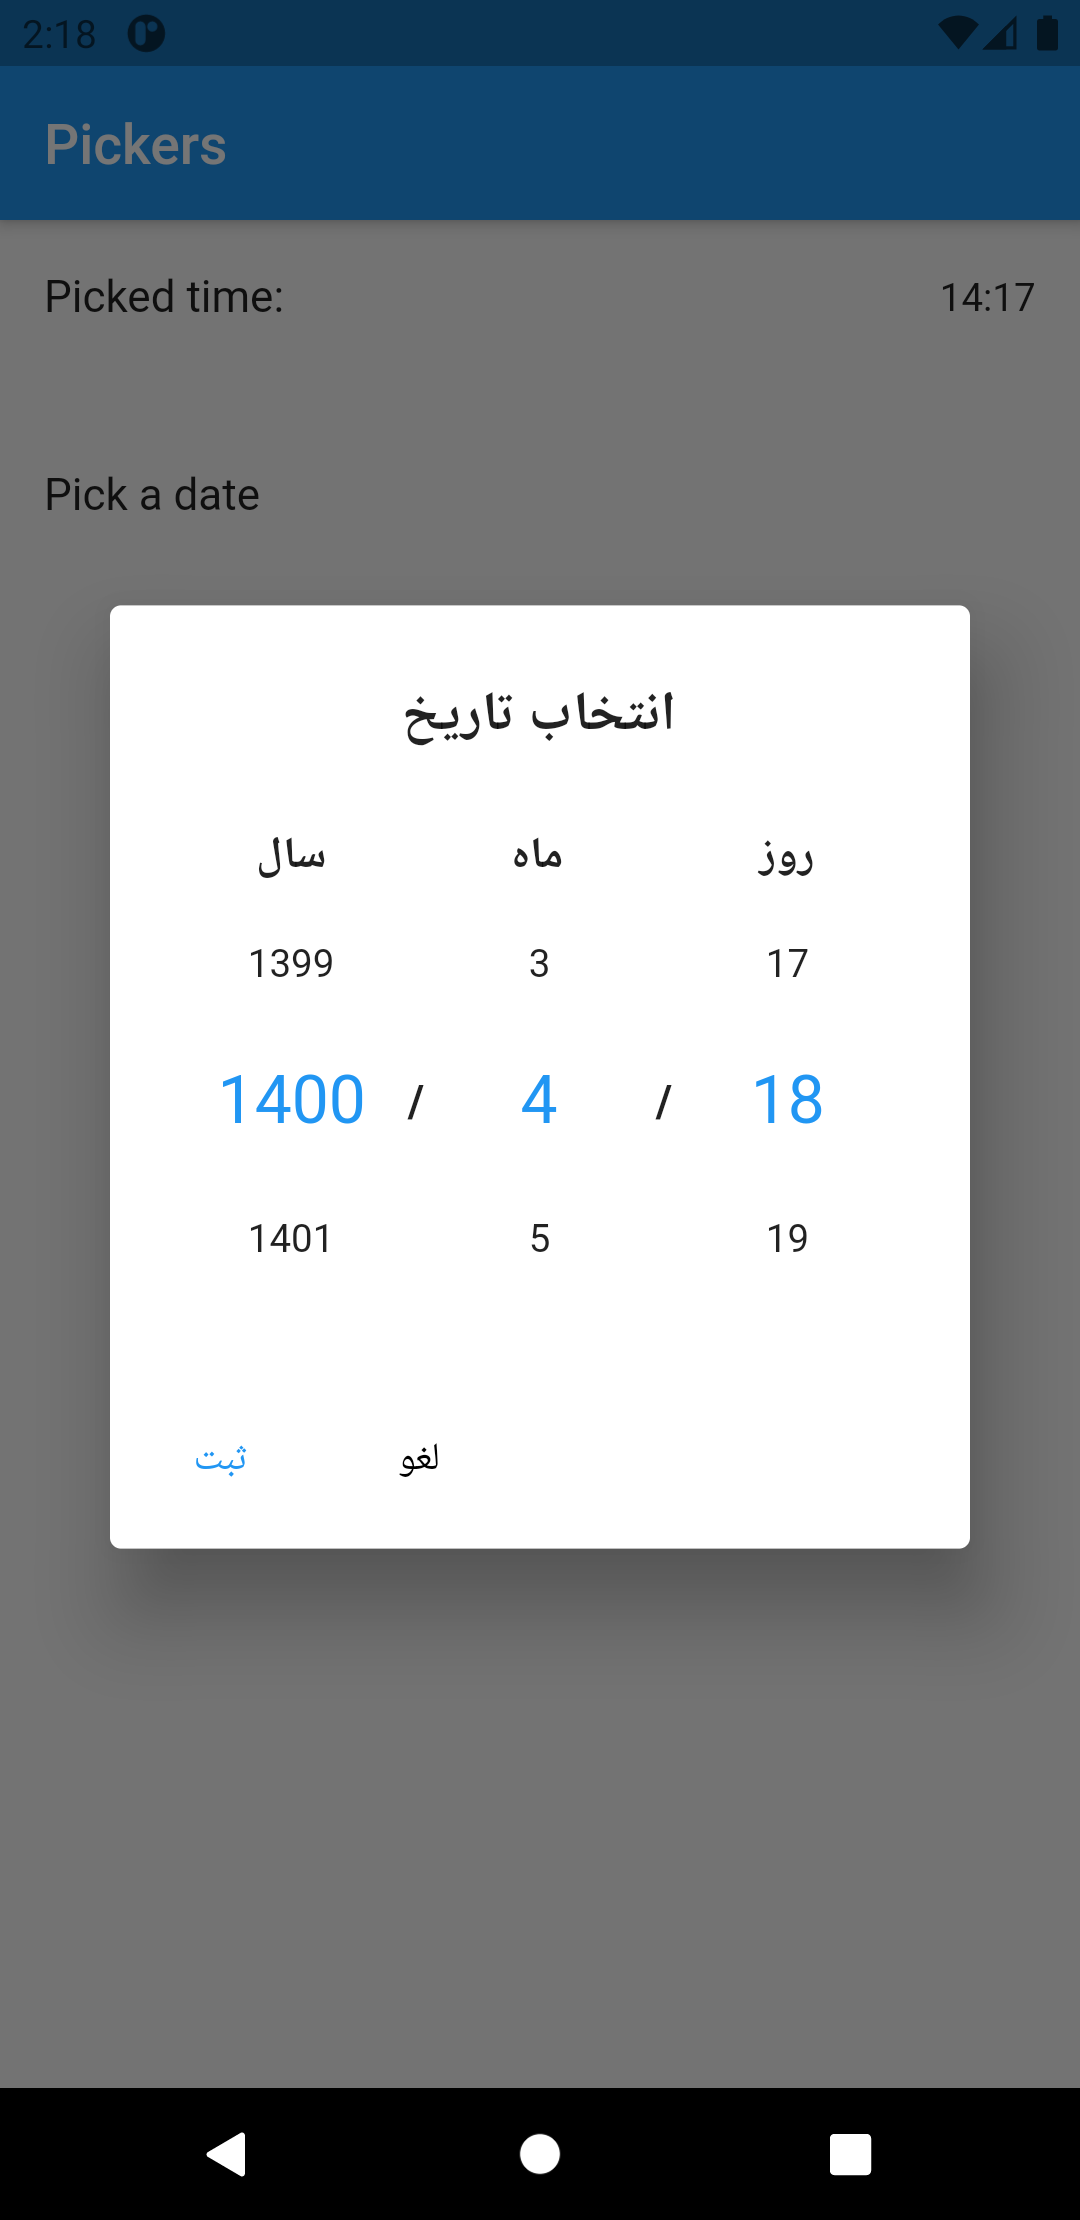
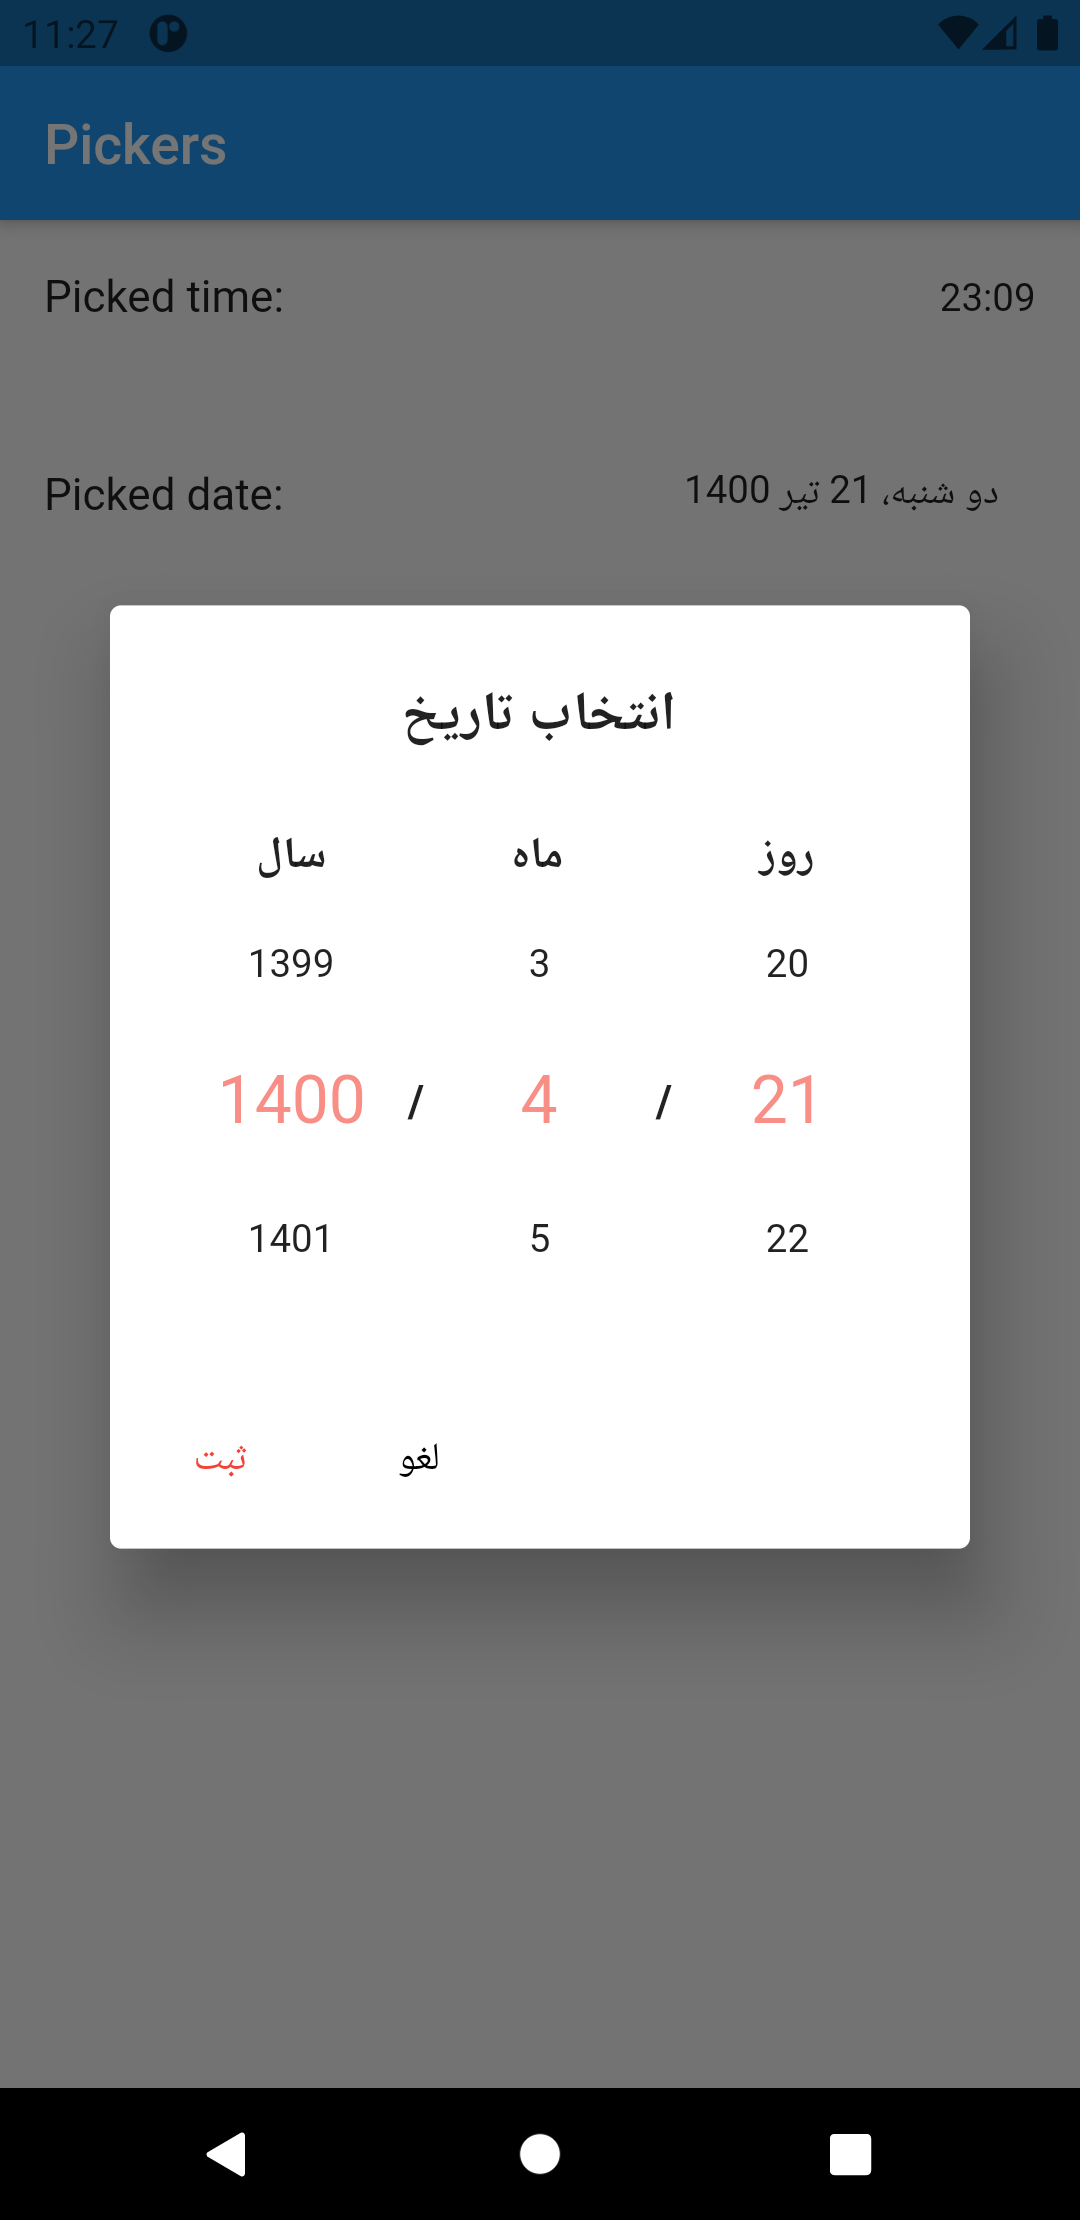
- custom color added to pickers - new extensions:   - DateTime toFancyString   - TimeOfDay toFancyString   - String addExtraZero - example updated with new changes

diff --git a/lib/src/pickers/date.dart b/lib/src/pickers/date.dart
@@ -20,6 +20,7 @@ Future<DateTime?> showPersianDatePicker({
   required BuildContext context,
   DateTime? initialDate,
   bool isJalali = true,
+  Color color = Colors.blue,
 }) async {
   DateTime? picked;
 
@@ -46,6 +47,72 @@ Future<DateTime?> showPersianDatePicker({
       : (initialDate == null
           ? Gregorian.now().day
           : Gregorian.fromDateTime(initialDate).day);
+
+  final materialColor = MaterialColor(
+    color.value,
+    {
+      50: Color.fromRGBO(
+        color.red,
+        color.green,
+        color.blue,
+        .1,
+      ),
+      100: Color.fromRGBO(
+        color.red,
+        color.green,
+        color.blue,
+        .2,
+      ),
+      200: Color.fromRGBO(
+        color.red,
+        color.green,
+        color.blue,
+        .3,
+      ),
+      300: Color.fromRGBO(
+        color.red,
+        color.green,
+        color.blue,
+        .4,
+      ),
+      400: Color.fromRGBO(
+        color.red,
+        color.green,
+        color.blue,
+        .5,
+      ),
+      500: Color.fromRGBO(
+        color.red,
+        color.green,
+        color.blue,
+        .6,
+      ),
+      600: Color.fromRGBO(
+        color.red,
+        color.green,
+        color.blue,
+        .7,
+      ),
+      700: Color.fromRGBO(
+        color.red,
+        color.green,
+        color.blue,
+        .8,
+      ),
+      800: Color.fromRGBO(
+        color.red,
+        color.green,
+        color.blue,
+        .9,
+      ),
+      900: Color.fromRGBO(
+        color.red,
+        color.green,
+        color.blue,
+        1,
+      ),
+    },
+  );
 
   await showDialog(
     context: context,
@@ -84,7 +151,7 @@ Future<DateTime?> showPersianDatePicker({
               child: Text(
                 isJalali ? 'ثبت' : 'Save',
                 style: TextStyle(
-                  color: Colors.blue,
+                  color: color,
                 ),
               ),
             ),
@@ -104,13 +171,18 @@ Future<DateTime?> showPersianDatePicker({
                           isJalali ? 'سال' : 'Year',
                           style: const TextStyle(fontWeight: FontWeight.bold),
                         ),
-                        NumberPicker(
-                          haptics: true,
-                          infiniteLoop: true,
-                          value: year,
-                          minValue: isJalali ? 1300 : 1900,
-                          maxValue: isJalali ? 1500 : 2100,
-                          onChanged: (value) => setState(() => year = value),
+                        Theme(
+                          data: ThemeData(
+                            primarySwatch: materialColor,
+                          ),
+                          child: NumberPicker(
+                            haptics: true,
+                            infiniteLoop: true,
+                            value: year,
+                            minValue: isJalali ? 1300 : 1900,
+                            maxValue: isJalali ? 1500 : 2100,
+                            onChanged: (value) => setState(() => year = value),
+                          ),
                         ),
                       ],
                     ),
@@ -130,11 +202,16 @@ Future<DateTime?> showPersianDatePicker({
                           isJalali ? 'ماه' : 'Month',
                           style: const TextStyle(fontWeight: FontWeight.bold),
                         ),
-                        NumberPicker(
-                          value: month,
-                          minValue: 1,
-                          maxValue: 12,
-                          onChanged: (value) => setState(() => month = value),
+                        Theme(
+                          data: ThemeData(
+                            primarySwatch: materialColor,
+                          ),
+                          child: NumberPicker(
+                            value: month,
+                            minValue: 1,
+                            maxValue: 12,
+                            onChanged: (value) => setState(() => month = value),
+                          ),
                         ),
                       ],
                     ),
@@ -154,11 +231,16 @@ Future<DateTime?> showPersianDatePicker({
                           isJalali ? 'روز' : 'Day',
                           style: const TextStyle(fontWeight: FontWeight.bold),
                         ),
-                        NumberPicker(
-                          value: day,
-                          minValue: 1,
-                          maxValue: 31,
-                          onChanged: (value) => setState(() => day = value),
+                        Theme(
+                          data: ThemeData(
+                            primarySwatch: materialColor,
+                          ),
+                          child: NumberPicker(
+                            value: day,
+                            minValue: 1,
+                            maxValue: 31,
+                            onChanged: (value) => setState(() => day = value),
+                          ),
                         ),
                       ],
                     ),

diff --git a/lib/src/pickers/time.dart b/lib/src/pickers/time.dart
@@ -5,11 +5,78 @@ Future<TimeOfDay?> showPersianTimePicker({
   required BuildContext context,
   TimeOfDay? initialTime,
   bool isJalali = true,
+  Color color = Colors.blue,
 }) async {
   TimeOfDay? picked;
 
   int hour = initialTime?.hour ?? TimeOfDay.now().hour;
   int minute = initialTime?.minute ?? TimeOfDay.now().minute;
+
+  final materialColor = MaterialColor(
+    color.value,
+    {
+      50: Color.fromRGBO(
+        color.red,
+        color.green,
+        color.blue,
+        .1,
+      ),
+      100: Color.fromRGBO(
+        color.red,
+        color.green,
+        color.blue,
+        .2,
+      ),
+      200: Color.fromRGBO(
+        color.red,
+        color.green,
+        color.blue,
+        .3,
+      ),
+      300: Color.fromRGBO(
+        color.red,
+        color.green,
+        color.blue,
+        .4,
+      ),
+      400: Color.fromRGBO(
+        color.red,
+        color.green,
+        color.blue,
+        .5,
+      ),
+      500: Color.fromRGBO(
+        color.red,
+        color.green,
+        color.blue,
+        .6,
+      ),
+      600: Color.fromRGBO(
+        color.red,
+        color.green,
+        color.blue,
+        .7,
+      ),
+      700: Color.fromRGBO(
+        color.red,
+        color.green,
+        color.blue,
+        .8,
+      ),
+      800: Color.fromRGBO(
+        color.red,
+        color.green,
+        color.blue,
+        .9,
+      ),
+      900: Color.fromRGBO(
+        color.red,
+        color.green,
+        color.blue,
+        1,
+      ),
+    },
+  );
 
   await showDialog(
     context: context,
@@ -43,7 +110,7 @@ Future<TimeOfDay?> showPersianTimePicker({
               child: Text(
                 isJalali ? 'ثبت' : 'Save',
                 style: TextStyle(
-                  color: Colors.blue,
+                  color: color,
                 ),
               ),
             ),
@@ -63,13 +130,18 @@ Future<TimeOfDay?> showPersianTimePicker({
                           isJalali ? 'ساعت' : 'Hour',
                           style: const TextStyle(fontWeight: FontWeight.bold),
                         ),
-                        NumberPicker(
-                          haptics: true,
-                          infiniteLoop: true,
-                          value: hour,
-                          minValue: 1,
-                          maxValue: 23,
-                          onChanged: (value) => setState(() => hour = value),
+                        Theme(
+                          data: ThemeData(
+                            primarySwatch: materialColor,
+                          ),
+                          child: NumberPicker(
+                            haptics: true,
+                            infiniteLoop: true,
+                            value: hour,
+                            minValue: 1,
+                            maxValue: 23,
+                            onChanged: (value) => setState(() => hour = value),
+                          ),
                         ),
                       ],
                     ),
@@ -89,11 +161,17 @@ Future<TimeOfDay?> showPersianTimePicker({
                           isJalali ? 'دقیقه' : 'Minute',
                           style: const TextStyle(fontWeight: FontWeight.bold),
                         ),
-                        NumberPicker(
-                          value: minute,
-                          minValue: 0,
-                          maxValue: 59,
-                          onChanged: (value) => setState(() => minute = value),
+                        Theme(
+                          data: ThemeData(
+                            primarySwatch: materialColor,
+                          ),
+                          child: NumberPicker(
+                            value: minute,
+                            minValue: 0,
+                            maxValue: 59,
+                            onChanged: (value) =>
+                                setState(() => minute = value),
+                          ),
                         ),
                       ],
                     ),

diff --git a/example/lib/main.dart b/example/lib/main.dart
@@ -32,12 +32,12 @@ class _PersianDatePickersExampleState extends State<PersianDatePickersExample> {
             title: _pickedTime == null
                 ? Text('Pick a time')
                 : Text('Picked time:'),
-            trailing: _pickedTime == null
-                ? null
-                : Text('${_pickedTime!.hour}:${_pickedTime!.minute}'),
+            trailing:
+                _pickedTime == null ? null : Text(_pickedTime!.toFancyString()),
             onTap: () async {
               final time = await showPersianTimePicker(
                 context: context,
+                color: Colors.red,
               );
 
               setState(() {
@@ -53,11 +53,12 @@ class _PersianDatePickersExampleState extends State<PersianDatePickersExample> {
             trailing: _pickedDate == null
                 ? null
                 : Text(
-                    _pickedDate!.toPersianDate(),
+                    _pickedDate!.toFancyString(),
                   ),
             onTap: () async {
               final date = await showPersianDatePicker(
                 context: context,
+                color: Colors.red,
               );
 
               setState(() {

diff --git a/lib/src/utils/extensions.dart b/lib/src/utils/extensions.dart
@@ -1,8 +1,37 @@
+import 'package:flutter/material.dart';
 import 'package:shamsi_date/shamsi_date.dart';
 
-extension PersianTimeDatePickerExtention on DateTime {
+extension PersianTimeDatePickersDateTimeExtension on DateTime {
   String toPersianDate() {
     final date = Jalali.fromDateTime(this);
     return '${date.year}/${date.month}/${date.day}';
+  }
+
+  String toFancyString({
+    bool isJalali = true,
+  }) {
+    if (isJalali) {
+      final formated = Jalali.fromDateTime(this).formatter;
+      return '${formated.wN}، ${formated.d} ${formated.mN} ${formated.yyyy}';
+    } else {
+      final formated = Gregorian.fromDateTime(this).formatter;
+      return '${formated.wN}, ${formated.d} ${formated.mN} ${formated.yyyy}';
+    }
+  }
+}
+
+extension PersianTimeDatePickersTimeOfDayExtension on TimeOfDay {
+  String toFancyString() {
+    return this.hour.toString().addExtraZero +
+        ':' +
+        this.minute.toString().addExtraZero;
+  }
+}
+
+extension PersianTimeDatePickersStringExtension on String {
+  String get addExtraZero {
+    String text = this;
+    if (text.length == 1) text = '0$text';
+    return text;
   }
 }

diff --git a/README.md b/README.md
@@ -1,4 +1,4 @@
-### Persian and gregorian time and date pickers in Flutter.
+### Persian and gregorian numeric time and date pickers in Flutter.
 ###### LIGHTWEIGHT - SIMPLE
 
 ---
@@ -11,7 +11,7 @@
 
 ```yaml
 dependencies:
-  persian_datetimepickers: ^1.0.1
+  persian_datetimepickers: ^1.0.2
 ```
 
 **2. Import package:**

diff --git a/CHANGELOG.md b/CHANGELOG.md
@@ -1,5 +1,16 @@
 ---
 
+### 1.0.2
+
+- custom color added to pickers
+- new extensions:
+  - DateTime toFancyString
+  - TimeOfDay toFancyString
+  - String addExtraZero
+- example updated with new changes
+
+---
+
 ### 1.0.1+1
 
 - readme screenshots size fixed
